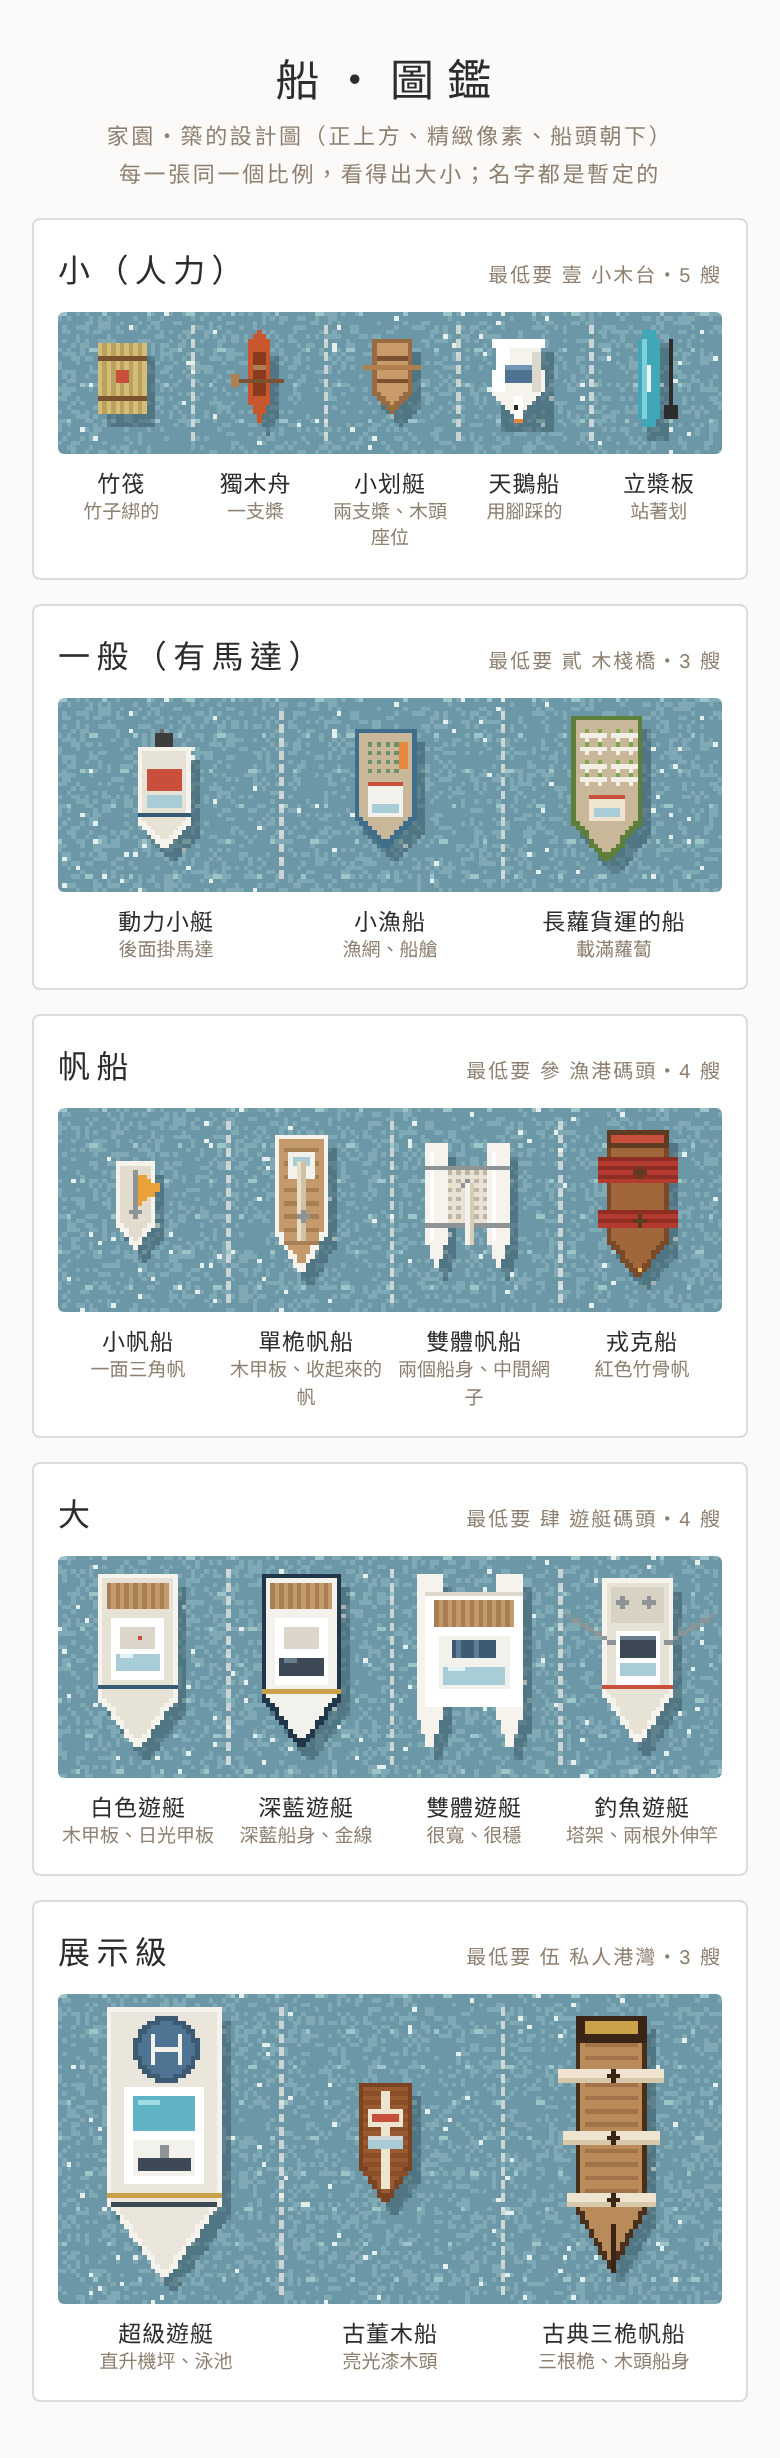
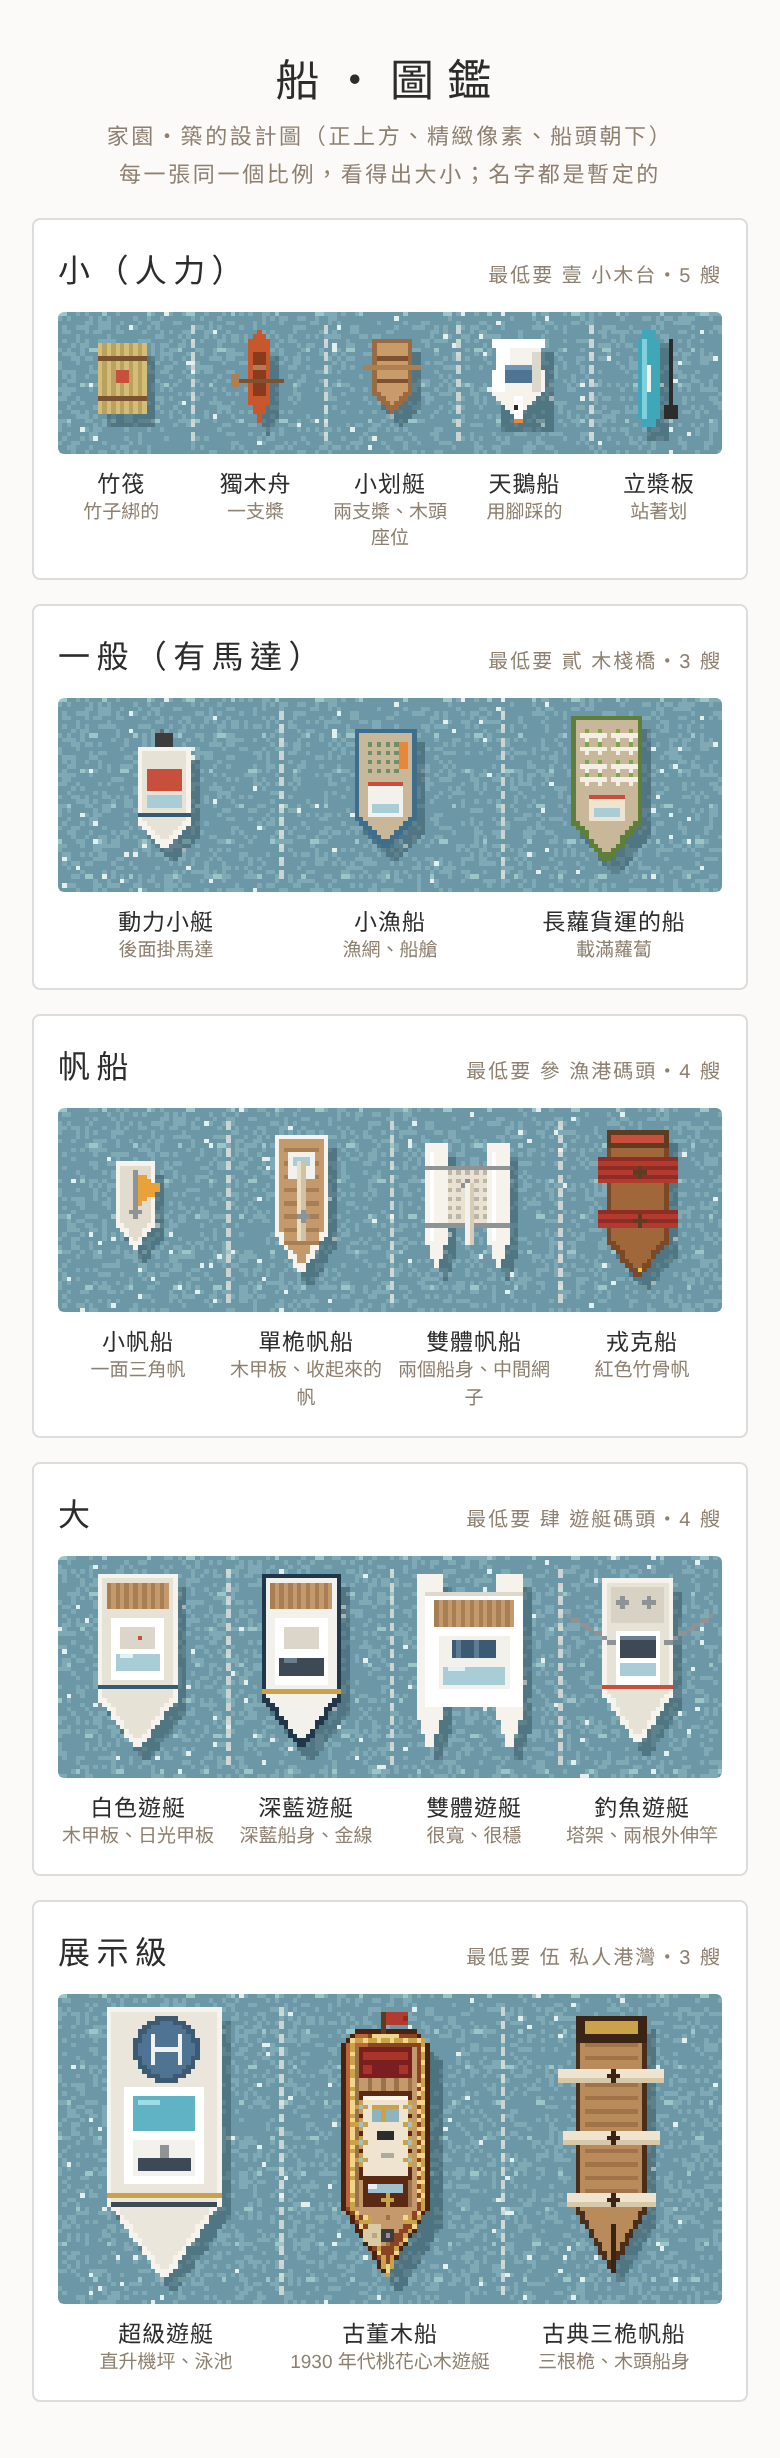
docs: grander classic wooden yacht design
Claude-Session: https://claude.ai/code/session_01DfELKGAuUeHGLNNJha5AAX

Changed region(s): [[0.4308, 0.8039, 0.5846, 0.9894], [0.5846, 0.9585, 0.6154, 0.9894]]

diff --git a/docs/plans/jiayuan/boats.html b/docs/plans/jiayuan/boats.html
@@ -169,7 +169,40 @@ function superyacht(x, a, b) { hull(x, a, b, 26, 62, 18, '#f6f3ec'); poly(x, [[a
   R(x, a + 4, b + 18, 18, 22, '#ffffff'); R(x, a + 6, b + 20, 14, 8, '#5fb3c4'); R(x, a + 7, b + 21, 5, 1, '#9fdce4');   // 小泳池
   R(x, a + 6, b + 30, 14, 8, '#f3f1ec'); R(x, a + 7, b + 34, 12, 3, '#3d4a55'); R(x, a + 12, b + 31, 2, 3, '#8e9396');   // 艦橋
   R(x, a, b + 42, 26, 1, '#c9a24a'); R(x, a + 1, b + 44, 24, 1, '#3d4a55'); }
-function runabout(x, a, b) { hull(x, a, b, 12, 28, 9, '#7a4422'); poly(x, [[a + 1, b + 1], [a + 11, b + 1], [a + 11, b + 18], [a + 6, b + 26], [a + 1, b + 18]], '#9a5a30'); for (let j = 2; j < 22; j += 2) R(x, a + 1, b + j, 10, 1, '#8a4f28'); R(x, a + 5, b + 2, 2, 22, '#efe4cf'); R(x, a + 2, b + 6, 8, 4, '#efe4cf'); R(x, a + 3, b + 7, 6, 2, '#c94f3d'); R(x, a + 2, b + 12, 8, 1, '#cfd6d9'); R(x, a + 2, b + 13, 8, 2, K.glass); }
+function runabout(x, a, b) {   // 古董木船（展示級）：1930 年代的桃花心木遊艇，20 × 56；船尾圓（上）、船頭尖（下）
+  const W = 20, L = 56, bow = 16;
+  const outer = [[a + 3, b], [a + W - 3, b], [a + W, b + 4], [a + W, b + L - bow], [a + W / 2, b + L], [a, b + L - bow], [a, b + 4]];
+  poly(x, outer.map(([u, v]) => [u + 3, v + 4]), 'rgba(20,40,50,.32)');
+  poly(x, outer, '#4a2210');                                                                   // 最外圈深色
+  const inner = [[a + 3, b + 1], [a + W - 3, b + 1], [a + W - 1, b + 4], [a + W - 1, b + L - bow], [a + W / 2, b + L - 2], [a + 1, b + L - bow], [a + 1, b + 4]];
+  poly(x, inner, '#8a4422');                                                                    // 亮光漆桃花心木
+  poly(x, [[a + 3, b + 1], [a + 6, b + 1], [a + 3, b + L - bow], [a + 1, b + L - bow], [a + 1, b + 4]], '#b8663a');   // 左邊反光
+  // 金色護舷線（沿著船邊一圈）
+  const gold = (pts) => { for (let k = 0; k < pts.length - 1; k++) { const [x0, y0] = pts[k], [x1, y1] = pts[k + 1], n = Math.max(Math.abs(x1 - x0), Math.abs(y1 - y0)); for (let i = 0; i <= n; i++) P(x, x0 + (x1 - x0) * i / n, y0 + (y1 - y0) * i / n, (i + k) % 3 ? '#c9a24a' : '#f0d58a'); } };
+  gold([[a + 2, b + 2], [a + W - 2, b + 2], [a + W - 2, b + L - bow], [a + W / 2, b + L - 3], [a + 2, b + L - bow], [a + 2, b + 2]]);
+  // 柚木甲板（直條）
+  for (let v = b + 4; v < b + L - bow; v++) for (let u = a + 3; u < a + W - 3; u++) P(x, u, v, (u - a) % 3 === 0 ? '#9a7448' : '#c49a6c');
+  poly(x, [[a + 3, b + L - bow], [a + W - 3, b + L - bow], [a + W / 2, b + L - 6]], '#c49a6c');
+  for (let v = b + L - bow; v < b + L - 6; v++) if ((v - b) % 3 === 0) P(x, a + W / 2, v, '#9a7448');
+  // 船尾：圓弧座位（紅皮）、金色名牌、朱色旗
+  R(x, a + 4, b + 4, 12, 7, '#7a1f1f'); R(x, a + 5, b + 5, 10, 2, '#a8342a'); R(x, a + 5, b + 8, 2, 2, '#a8342a'); R(x, a + 13, b + 8, 2, 2, '#a8342a');
+  R(x, a + 7, b + 1, 6, 1, '#f0d58a');
+  R(x, a + 9, b - 4, 1, 5, '#5e3c22'); R(x, a + 10, b - 4, 5, 3, '#b33a2f'); P(x, a + 14, b - 3, '#8f2c23');
+  // 主艙房：奶油色屋頂、桃花心木邊、兩排黃銅舷窗、天窗、煙囪
+  R(x, a + 4, b + 14, 12, 20, '#5a2a14'); R(x, a + 5, b + 15, 10, 18, '#efe4cf'); R(x, a + 5, b + 15, 10, 1, '#fbf5e8');
+  for (let k = 0; k < 4; k++) { circ(x, a + 4, b + 17 + k * 4, 1, '#c9a24a'); P(x, a + 4, b + 17 + k * 4, '#9fc0cc'); circ(x, a + 15, b + 17 + k * 4, 1, '#c9a24a'); P(x, a + 15, b + 17 + k * 4, '#9fc0cc'); }
+  R(x, a + 7, b + 17, 6, 4, '#8fb4c0'); R(x, a + 7, b + 17, 6, 1, '#c9a24a'); R(x, a + 9, b + 17, 1, 4, '#c9a24a');   // 天窗
+  R(x, a + 8, b + 23, 4, 5, '#efe4cf'); R(x, a + 8, b + 23, 4, 2, '#2c2c2c'); R(x, a + 9, b + 28, 3, 1, 'rgba(20,40,50,.3)');   // 煙囪（黑頂）
+  // 駕駛艙：一圈窗、金色舵輪
+  R(x, a + 5, b + 34, 10, 6, '#5a2a14'); R(x, a + 6, b + 35, 8, 2, '#9fc0cc'); R(x, a + 6, b + 35, 2, 1, '#e2f1f3'); circ(x, a + 10, b + 38, 1, '#c9a24a');
+  // 前甲板：黃銅繫船柱、捲好的繩子、錨機、船頭金色裝飾
+  [[a + 5, b + 42], [a + 14, b + 42]].forEach(([u, v]) => { R(x, u, v, 2, 2, '#c9a24a'); P(x, u, v, '#f0d58a'); });
+  circ(x, a + 7, b + 46, 2, '#d9cba5'); P(x, a + 7, b + 46, '#b8a77c');
+  R(x, a + 9, b + 45, 3, 3, '#3d3d3d'); P(x, a + 10, b + 46, '#8e9396');
+  P(x, a + 10, b + L - 2, '#f0d58a'); P(x, a + 10, b + L - 1, '#c9a24a'); P(x, a + 9, b + L - 3, '#c9a24a'); P(x, a + 11, b + L - 3, '#c9a24a');
+  // 欄杆（金點）
+  for (let v = b + 12; v < b + L - bow; v += 2) { P(x, a + 2, v, '#f0d58a'); P(x, a + W - 3, v, '#f0d58a'); }
+}
 function cargo(x, a, b) {   // 長蘿貨運的船：綠色船身、載滿蘿蔔（貨運・航致敬）
   hull(x, a, b, 16, 34, 10, '#5d7f3a'); poly(x, [[a + 1, b + 1], [a + 15, b + 1], [a + 15, b + 23], [a + 8, b + 32], [a + 1, b + 23]], '#c9b79a');
   for (let i = 0; i < 4; i++) for (let j = 0; j < 4; j++) { circ(x, a + 3 + i * 3.4, b + 4 + j * 3.4, 1, '#f3efe6'); P(x, a + 3 + i * 3.4, b + 3 + j * 3.4, '#7ba84a'); }
@@ -226,7 +259,7 @@ const SMALL = [['竹筏', '竹子綁的', raft], ['獨木舟', '一支槳', cano
 const MOTOR = [['動力小艇', '後面掛馬達', motorboat], ['小漁船', '漁網、船艙', fishing], ['長蘿貨運的船', '載滿蘿蔔', cargo]];
 const SAIL = [['小帆船', '一面三角帆', dinghy], ['單桅帆船', '木甲板、收起來的帆', sailboat], ['雙體帆船', '兩個船身、中間網子', catamaran], ['戎克船', '紅色竹骨帆', junk]];
 const BIG = [['白色遊艇', '木甲板、日光甲板', yacht], ['深藍遊艇', '深藍船身、金線', yachtNavy], ['雙體遊艇', '很寬、很穩', powerCat], ['釣魚遊艇', '塔架、兩根外伸竿', sportfisher]];
-const SHOW = [['超級遊艇', '直升機坪、泳池', superyacht], ['古董木船', '亮光漆木頭', runabout], ['古典三桅帆船', '三根桅、木頭船身', tallShip]];
+const SHOW = [['超級遊艇', '直升機坪、泳池', superyacht], ['古董木船', '1930 年代桃花心木遊艇', runabout], ['古典三桅帆船', '三根桅、木頭船身', tallShip]];
 
 function sheetSea(id, list, H) {
   const { x, W } = make(id), n = list.length, colW = W / n;

diff --git a/docs/plans/jiayuan/README.md b/docs/plans/jiayuan/README.md
@@ -66,7 +66,8 @@
   - 一般（有馬達）3：動力小艇（後面掛馬達）、小漁船（漁網、船艙）、長蘿貨運的船（載滿蘿蔔）。
   - 帆船 4：小帆船（一面三角帆）、單桅帆船（木甲板、收起來的帆）、雙體帆船（兩個船身、中間網子）、戎克船（紅色竹骨帆）。
   - 大 4：白色遊艇、深藍遊艇（金線）、雙體遊艇（很寬）、釣魚遊艇（塔架、兩根外伸竿）。
-  - 展示級 3：超級遊艇（直升機坪、泳池）、古董木船（亮光漆木頭、奶油色條紋）、古典三桅帆船。
+  - 展示級 3：超級遊艇（直升機坪、泳池）、古董木船、古典三桅帆船。
+  - **古董木船**（2026-11-21 使用者說「再華麗一點、要有氣派感，體積也不對」，重畫）：1930 年代的桃花心木遊艇，20 × 56 顆，跟超級遊艇（26 × 62）差不多大。亮光漆桃花心木船身＋左邊反光、一圈金色護舷線、柚木甲板；船尾紅皮圓弧座位、金色名牌、朱色旗；中間奶油色艙房（兩排黃銅舷窗、天窗、黑頂煙囪）；駕駛艙（窗、金色舵輪）；前甲板黃銅繫船柱、捲好的繩子、錨機、船頭金色裝飾；欄杆是一排金點。碼頭的私人港灣也換成這一艘。
 - **車庫可以替換載具**（2026-11-21 使用者採納）：車庫的車位決定「停在島上看得到的車」；買的車可以比車位多，多的放在「寄放處」（不在島上畫，但算你的藏品、看得到清單）。點車位就能從寄放處換一台進來、或把這台收進去。**寄放處不設上限**（使用者定的）：車位只是「能展示幾台」。**但每一種車先只能買一台**（使用者 2026-11-21 定的，目錄裡每台車 `max: 1`；之後想開放買第二台只要改數字），所以一個人最多就是圖鑑上那幾台（現在 27 台），存檔大小不用擔心。資料上寄放處的車 `in` 寫 `depot`（不是哪一個車庫）。
 
 ## 擴充性（使用者 2026-11-21 要的：之後要能做到屋內裝潢，細到衣櫃裡的衣服、一個設施能放幾個）

diff --git a/changelog/2026-11.md b/changelog/2026-11.md
@@ -808,3 +808,7 @@
 ## 2026-11-21 13:20（台灣）　家園設計圖：船的圖鑑
 - 畫好 19 艘船：小（人力）5、一般（有馬達）3、帆船 4、大 4、展示級 3，放在 `docs/plans/jiayuan/boats.png`。新加了天鵝船、立槳板、小帆船、雙體帆船、戎克船、深藍遊艇、雙體遊艇、釣魚遊艇、古典三桅帆船。
 - 網站本身沒有改。
+
+## 2026-11-21 13:35（台灣）　家園設計圖：古董木船重畫
+- 古董木船改成 1930 年代的桃花心木遊艇，變大（跟超級遊艇差不多），加了金色護舷線、紅皮座位、朱色旗、黃銅舷窗、煙囪、舵輪，比較有氣派。船的圖鑑和碼頭的私人港灣都換了。
+- 網站本身沒有改。
